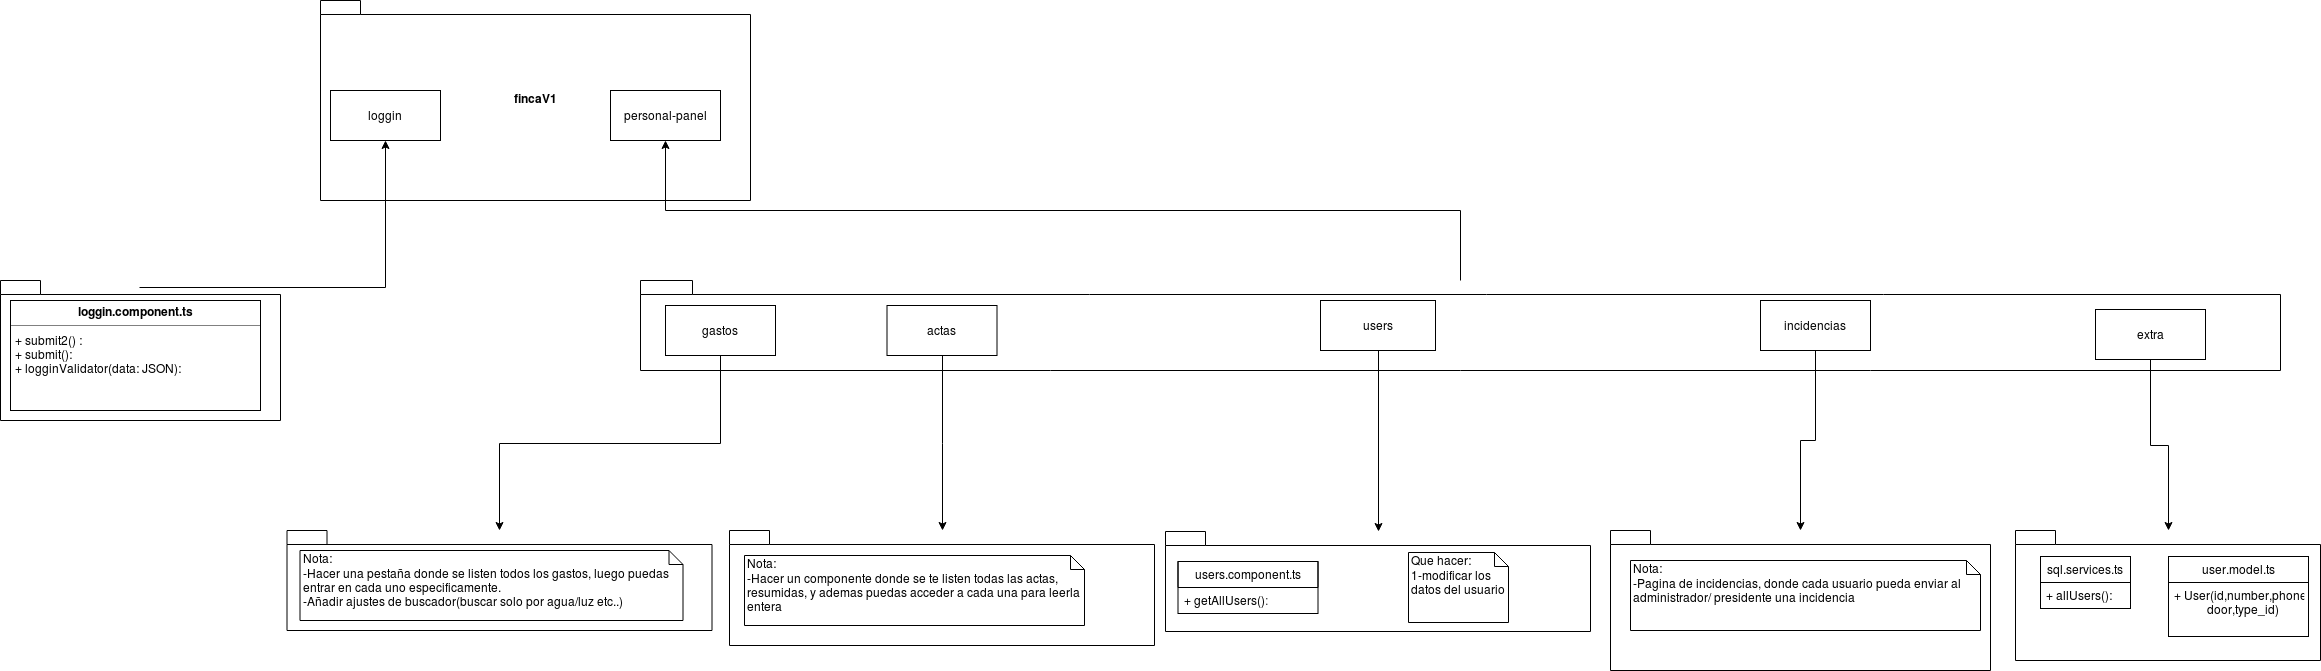
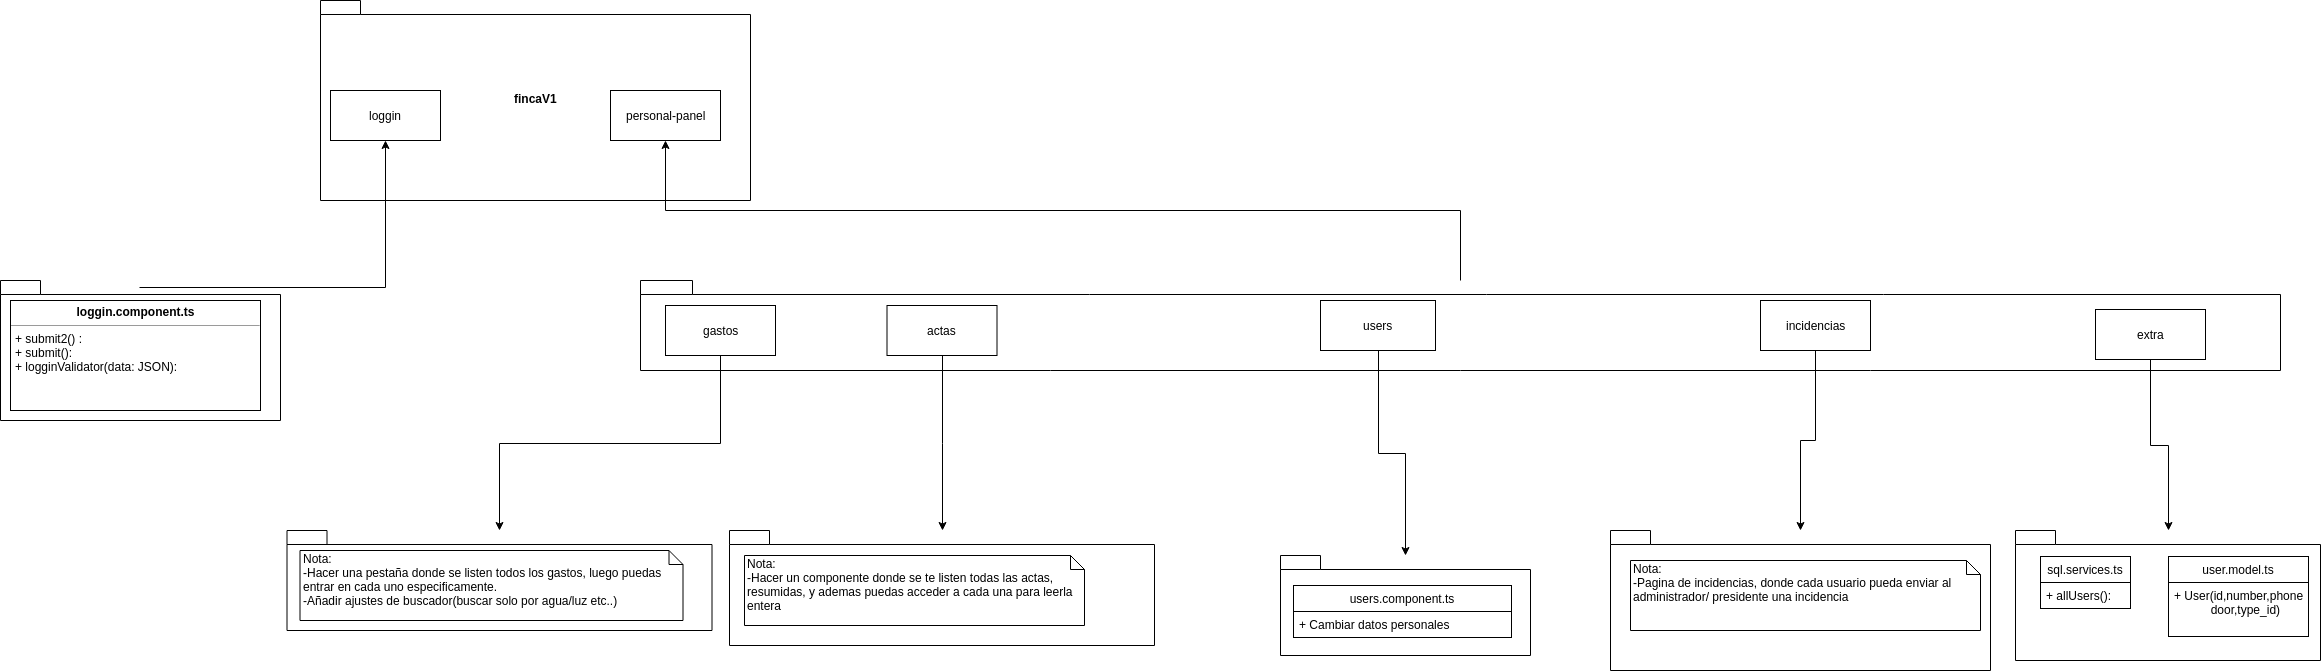
Añadido lista actas

diff --git a/src/app/personal-panel/actas/actas.component.ts b/src/app/personal-panel/actas/actas.component.ts
@@ -1,0 +1,53 @@
+import { SqlService } from "./../extra/sql.service";
+import { Component, OnInit } from "@angular/core";
+import { Actas } from "../extra/interfaces.services";
+import { Observable } from "rxjs";
+import { Router, ActivatedRoute } from "@angular/router";
+
+@Component({
+  selector: "app-actas",
+  templateUrl: "./actas.component.html",
+  styleUrls: ["./actas.component.css"]
+})
+export class ActasComponent implements OnInit {
+  constructor(private sqlService: SqlService,
+              private route: Router,
+              private router: ActivatedRoute) {}
+
+  allActas: Observable<Actas>;
+  saveData;
+
+  arrayDate = [];
+  arrayId = [];
+  arrayDescription = [];
+
+  arrayAllData = [];
+
+  date;
+  date2id: number;
+
+  ngOnInit() {
+    this.loadAllActas();
+  }
+
+  loadAllActas() {
+    this.allActas = this.sqlService.allActas();
+    this.saveData = this.allActas.subscribe(data => {
+      for (let q of data) {
+          this.arrayAllData.push([q.id, q.fecha, q.descripcion]);
+      }
+    });
+  }
+//Este metodo es llamadado desde el html
+  transformDate(data: any) {
+    const date = new Date(data);
+    const day = date.getDate();
+    const month = date.getMonth();
+    const year = date.getFullYear();
+    const result = day + "-" + month + "-" + year;
+    return result;
+  }
+  especificActa(idActa: number){
+    this.route.navigate(["acta"], {relativeTo: this.router, queryParams: {idActa}});
+  }
+}

diff --git a/src/app/personal-panel/extra/logged.service.ts b/src/app/personal-panel/extra/logged.service.ts
@@ -12,46 +12,36 @@ export class LoggedService {
     password: "",
     usuario: ""
   };
+
   constructor(private router: Router) {}
 
-  cleaner() {
-    this.test = {
-      id: " ",
-      tipo: " ",
-      nombre: " ",
-      telefono: " ",
-      puerta: " ",
-      password: " ",
-      usuario: " "
-    };
-  }
-
+//Objeto donde guardo los datos del usuario loggeado
   saveData(data: JSON) {
     this.test = {
       id: data[0].id,
-      tipo: data[0].tipo_id,
       nombre: data[0].nombre,
+      tipo: data[0].tipo_id,
       telefono: data[0].telefono,
       puerta: data[0].puerta,
       password: data[0].password,
       usuario: data[0].usuario
     };
   }
+  //Devuelvo los datos del usuario logeado
   getData() {
     return this.test;
   }
-
+  //Si alguien accede directamente a una url especifica como el panel personal este
+  //metodo lo devuelve al inicio ya que no se ha logeado
   loggedValidator() {
     if (this.getData().id === "") {
       this.router.navigate(["/"]);
     }
   }
-
+  //Metodo para updatear los datos del panel personal
   updateDataObject(data: JSON) {
     const dataString = JSON.stringify(data);
     const dataJSON = JSON.parse(dataString);
     this.saveData(dataJSON);
   }
-
-  newUser() {}
 }

diff --git a/src/app/app.module.ts b/src/app/app.module.ts
@@ -2,6 +2,7 @@ import { BrowserModule } from "@angular/platform-browser";
 import { NgModule } from "@angular/core";
 import { FormsModule, ReactiveFormsModule } from "@angular/forms";
 import { HttpModule } from "@angular/http";
+import { HttpClientModule } from "@angular/common/http"
 
 
 import { AppComponent } from './app.component';
@@ -12,6 +13,8 @@ import { AppRoute } from "./app.route";
 import { UsersComponent } from './personal-panel/users/users.component';
 import { SqlService } from "./personal-panel/extra/sql.service";
 import { LoggedService } from "./personal-panel/extra/logged.service";
+import { ActasComponent } from './personal-panel/actas/actas.component';
+import { ActaComponent } from './personal-panel/actas/acta/acta.component';
 
 @NgModule({
   declarations: [
@@ -19,13 +22,15 @@ import { LoggedService } from "./personal-panel/extra/logged.service";
     LogginComponent, 
     HeaderComponent, 
     PersonalPanelComponent, 
-    UsersComponent
+    UsersComponent, 
+    ActasComponent, ActaComponent
   ],
   imports: [
     BrowserModule,
     FormsModule,
     ReactiveFormsModule,
     HttpModule,
+    HttpClientModule,
     AppRoute
   ],
   providers: [SqlService, LoggedService],

diff --git a/src/app/personal-panel/header/header.component.html b/src/app/personal-panel/header/header.component.html
@@ -1,15 +1,25 @@
 <nav class="navbar navbar-expand-lg navbar-light bg-light">
   <a class="navbar-brand" href="#">Navbar</a>
   <div class="collapse navbar-collapse" id="navbarNav">
-  <!-- <ul class="navbar-nav">
+    <!-- <ul class="navbar-nav">
     <li class="nav-item active">
       <a style="cursor: pointer" class="nav-link" (click)="listUsers()">Perfil de Usuario</a>
     </li>
   </ul> -->
+    <!-- <ul class="navbar-nav">
+    <li class="nav-item active">
+      <a style="cursor: pointer" class="nav-link" (click)="listActas()">Actas</a>
+    </li>
+  </ul> -->
   </div>
-      <ul class="navbar-nav">
-        <li class="nav-item active">
-          <a style="cursor: pointer" class="nav-link" (click)="listUsers()">Perfil de Usuario</a>
-        </li>
-      </ul>
+  <ul class="navbar-nav">
+    <li class="nav-item active">
+      <a style="cursor: pointer" class="nav-link" (click)="listUsers()">Perfil de Usuario</a>
+    </li>
+  </ul>
+  <ul class="navbar-nav">
+    <li class="nav-item active">
+      <a style="cursor: pointer" class="nav-link" (click)="listActas()">Actas</a>
+    </li>
+  </ul>
 </nav>

diff --git a/src/app/personal-panel/extra/sql.service.ts b/src/app/personal-panel/extra/sql.service.ts
@@ -1,15 +1,17 @@
+import { map } from 'rxjs/operators';
 import { Injectable } from '@angular/core';
 import { Http, Response } from "@angular/http";
-import { map } from "rxjs/operators";
-import { User } from './user.model';
+import { HttpClient } from '@angular/common/http';
 import { Observable } from 'rxjs';
+import { Actas } from './interfaces.services';
 
 @Injectable()
 export class SqlService {
 
   base = "http://localhost:3000";
 
-  constructor(private http: Http) {}
+  constructor(private http: Http,
+              private http2: HttpClient) {}
 
   loggin(user: string, pass: string) {
     const url =this.base + "/loggin/" + user + "/" + pass;
@@ -32,5 +34,11 @@ export class SqlService {
   updateUser(user: any){
     const url = this.base + "/updateUser/" + user.nombre +'&'+user.telefono+'&'+user.puerta+'&'+user.usuario+'&'+user.pass+'&'+user.id;
     return this.http.put(url, JSON.stringify(user));
+  }
+
+  //Lista todas las actas
+  allActas(): Observable<Actas>{
+    const url = this.base + "/allActas";
+    return this.http2.get<Actas>(url);
   }
 }

diff --git a/src/app/app.route.ts b/src/app/app.route.ts
@@ -1,14 +1,18 @@
+import { ActaComponent } from './personal-panel/actas/acta/acta.component';
 import { NgModule } from "@angular/core";
 import { Routes, RouterModule } from "@angular/router";
 import { LogginComponent } from "./loggin/loggin.component";
 import { PersonalPanelComponent } from "./personal-panel/personal-panel.component";
 import { UsersComponent } from "./personal-panel/users/users.component";
+import { ActasComponent } from "./personal-panel/actas/actas.component";
 
 const appRoutes: Routes = [
   { path: "", redirectTo: "/login", pathMatch: "full" },
   { path: "login", component: LogginComponent },
   { path: "personal_panel", component: PersonalPanelComponent, children: [
-    { path: "listUsers", component: UsersComponent }
+    { path: "listUsers", component: UsersComponent },
+    { path: "listActas", component: ActasComponent },
+    { path: "listActas/acta", component: ActaComponent }
   ] },
   { path: "**", redirectTo: "/login" }
 ];

diff --git a/src/app/personal-panel/users/users.component.ts b/src/app/personal-panel/users/users.component.ts
@@ -34,11 +34,10 @@ export class UsersComponent implements OnInit {
       usuario: new FormControl(null),
       password: new FormControl(null)
     });
-    this.getUser(true);
+    this.getUser();
   }
 
-  getUser(boolean: boolean) {
-    if (boolean === true) {
+  getUser() {
       this.dataUser.patchValue({
         nombre: this.loggedService.getData().nombre,
         telefono: this.loggedService.getData().telefono,
@@ -47,7 +46,6 @@ export class UsersComponent implements OnInit {
         usuario: this.loggedService.getData().usuario
       });
     }
-  }
   //Al principio los datos no se pueden editar, pulsando el boton editar los label
   //pasaran a ser editables y a pareceran 2 botones mas
   editable() {
@@ -77,6 +75,5 @@ export class UsersComponent implements OnInit {
   cancelButton() {
     this.readOnly = true;
     this.modeEditable = false;
-    this.getUser(false);
   }
 }

diff --git a/src/app/personal-panel/actas/acta/acta.component.ts b/src/app/personal-panel/actas/acta/acta.component.ts
@@ -1,0 +1,29 @@
+import { Component, OnInit, OnDestroy } from '@angular/core';
+import { ActivatedRoute } from '@angular/router';
+import { Subscription } from 'rxjs';
+
+@Component({
+  selector: 'app-acta',
+  templateUrl: './acta.component.html',
+  styleUrls: ['./acta.component.css']
+})
+export class ActaComponent implements OnInit, OnDestroy {
+
+  constructor(private router: ActivatedRoute) { }
+
+  idActa: Subscription;
+  id:number;
+
+  ngOnInit() {
+    this.idActa = this.router.queryParams.subscribe(
+      params => {
+        this.id = params.idActa;
+      }
+    )
+  }
+
+  ngOnDestroy() {
+    this.idActa.unsubscribe();
+  }
+
+}

diff --git a/server/database.js b/server/database.js
@@ -129,6 +129,17 @@ app.put("/updateUser/:name&:phone&:door&:user&:pas&:id", function(
   );
 });
 
+app.get("/allActas", function (req, res) {
+  connection.query(
+    "select * from Actas ",
+    [req.params.id, req.params.name],
+    function (error, result) {
+      const data = JSON.stringify(result);
+      res.end(data);
+    }
+  );
+});
+
 // app.put("/updateUser/:id&:name&:phone&:door&:type_id&:user&:pas", function(req,res) {
 //   connection.query(
 //     "update Usuario where id = ? and nombre = ? and telefono = ? and puerta = ? and tipo_id = ? and usuario = ? and password = ? ",

diff --git a/src/app/personal-panel/extra/user.model.ts b/src/app/personal-panel/extra/user.model.ts
@@ -4,18 +4,24 @@ export class User {
   public phone: number;
   public door: number;
   public type_id: number;
+  public user: string;
+  public pass: string
 
   constructor(
     id: number,
     name: string,
     phone: number,
     door: number,
-    type_id: number
+    type_id: number,
+    user: string,
+    pass: string
   ) {
     this.id = id;
     this.name = name;
     this.phone = phone;
     this.door = door;
     this.type_id = type_id;
+    this.user = user;
+    this.pass = pass;
   }
 }

diff --git a/src/app/personal-panel/actas/actas.component.html b/src/app/personal-panel/actas/actas.component.html
@@ -1,0 +1,11 @@
+<div class="list-group">
+  <a (click)="especificActa(index[0])" class="list-group-item list-group-item-action" *ngFor="let index of arrayAllData">
+    <div class="col-xs-3" >
+      <h3>Fecha:</h3>
+      {{transformDate(index[1])}}
+    </div>
+    <div class="col-xs-9" >
+      <h3>Descripcion:</h3> {{index[2]}}
+    </div>
+  </a>
+</div>

diff --git a/src/app/personal-panel/header/header.component.ts b/src/app/personal-panel/header/header.component.ts
@@ -14,4 +14,7 @@ export class HeaderComponent implements OnInit {
   listUsers() {
     this.route.navigate(["listUsers"], { relativeTo: this.router });
   }
+  listActas() {
+    this.route.navigate(["listActas"], { relativeTo: this.router });
+  }
 }
